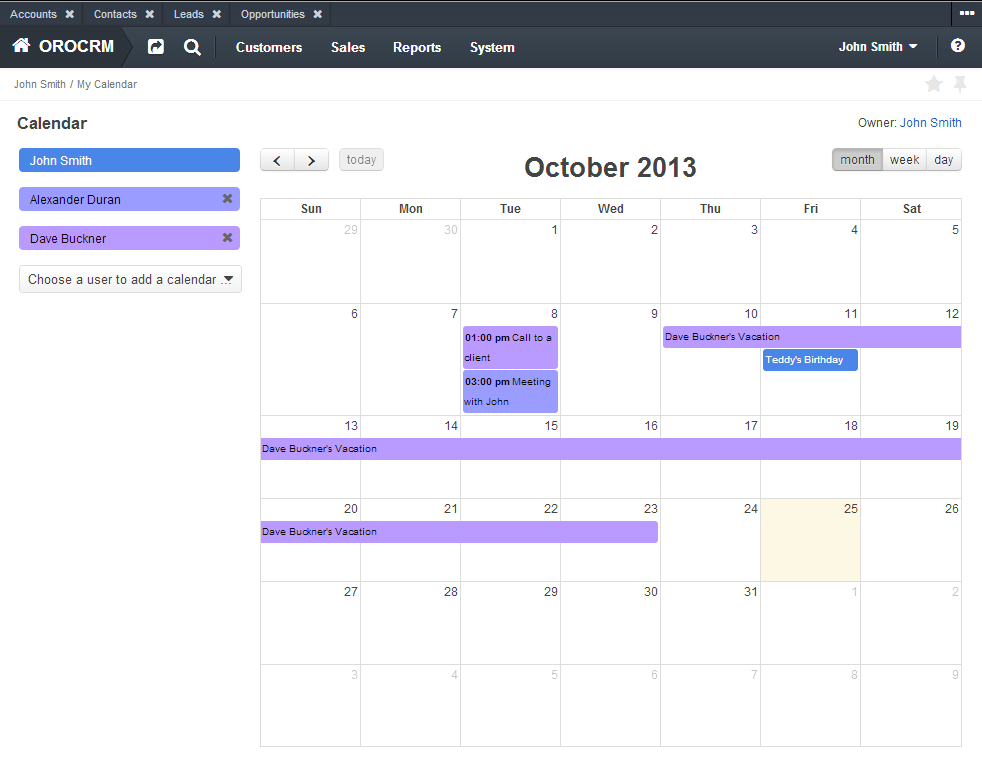
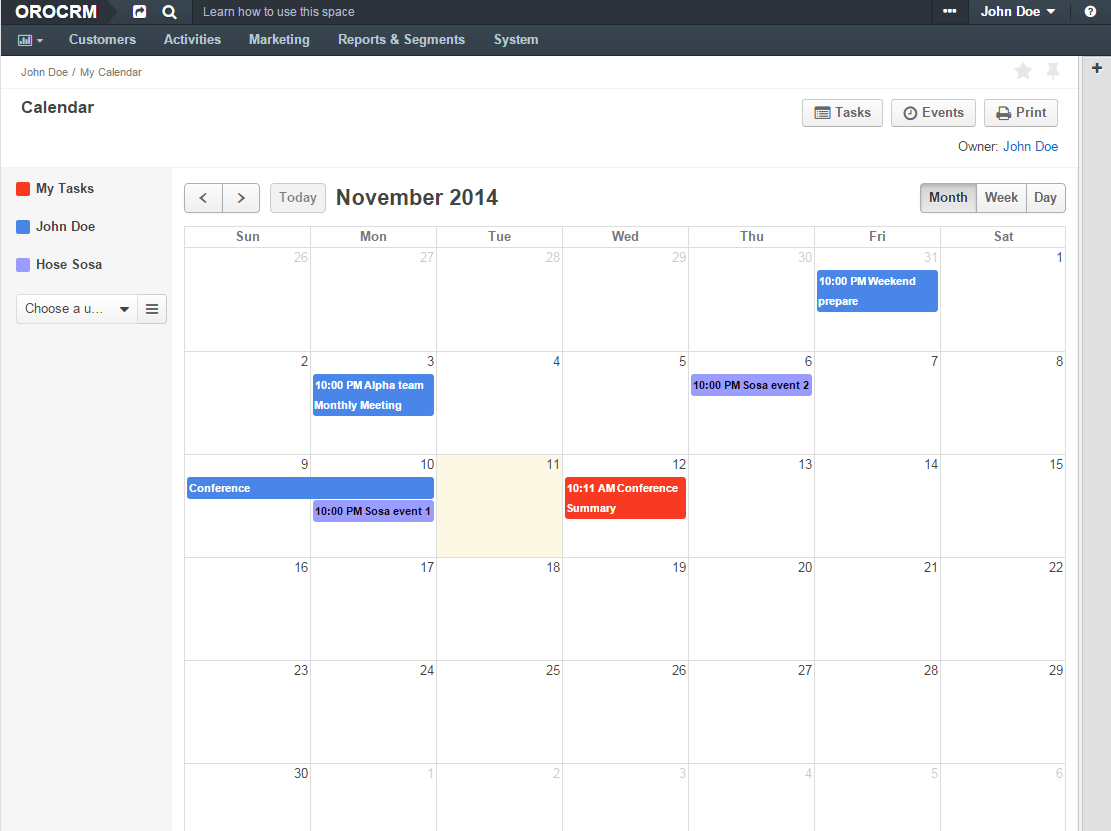
BAP-5968: Multiple calendars: Documentation - added doc - replace example calendar image

diff --git a/Resources/doc/contextMenu.md b/Resources/doc/contextMenu.md
@@ -1,0 +1,87 @@
+Context Calendar Menu
+=====================
+
+Table of content
+-----------------
+- [Overview](#overview)
+- [Extendability](#extendability)
+
+##Overview
+Each item is calendar in left sidebar on page "My Calendar". Each of them can have context menu. You can see it if click
+ on three dots icon in right side of calendar item. Context menu have actions. By default we have two actions "Show/Hide
+ calendar" and "Remove calendar" (from calendar items list).
+
+##Extendability
+Developer can extend calendar item context menu. He can add his own action to menu. Developer can add new action into
+ any bundle. Context Menu based on knplabs/knp-menu. First of all developer should add menu item into navigation.yml, for
+ example:
+``` yaml
+oro_menu_config:
+    items:
+        oro_calendar_remove_action:
+            label: 'oro.calendar.context.remove'
+            uri: '#'
+            extras:
+                position: 20
+                module: 'orocalendar/js/calendar/menu/remove-calendar'
+                template: 'OroCalendarBundle:Calendar:Menu/removeCalendar.html.twig'
+    tree:
+        calendar_menu:
+            type: calendar_menu
+            children:
+                oro_calendar_remove_action: ~
+```
+
+Developer must define parameters:
+- Label shows action name into menu.
+- Module consists js module that to perform action into browser. If developer don't provide module parameter then
+ context menu don't have this action.
+- Template parameter provide twig template that replace standard item template? for example:
+``` twig
+<% if (removable) { %>
+    {% if item.extras.module is defined %}
+        {% set itemAttributes = itemAttributes|merge({'data-module': item.extras.module })%}
+    {% endif %}
+    <a href="javascript:void(0);"{{ oro_menu.attributes(itemAttributes) }}>{{ label }}</a>
+<% } %>
+```
+
+In js module developer should done method execute. This method will call when user click on your item menu. Example:
+``` js
+...
+execute: function (model, promise) {
+    var removingMsg = messenger.notificationMessage('warning', __('Removing the calendar, please wait ...')),
+        $connection = this.connectionsView.findItem(model);
+    try {
+        $connection.hide();
+        model.destroy({
+            wait: true,
+            success: _.bind(function () {
+                removingMsg.close();
+                messenger.notificationFlashMessage('success', __('The calendar was removed.'));
+                promise.resolve();
+            }, this),
+            error: _.bind(function (model, response) {
+                removingMsg.close();
+                this._showError(__('Sorry, the calendar removing was failed'), response.responseJSON || {});
+                $connection.show();
+                promise.reject();
+            }, this)
+        });
+    } catch (err) {
+        removingMsg.close();
+        this._showError(__('Sorry, unexpected error was occurred'), err);
+        $connection.show();
+        promise.reject();
+    }
+},
+...
+```
+
+Execute function must receive two parameters:
+- model is Backbone object that consist property of calendar item.
+- promise is jQuery deferred object that synchronize context menu action and rendering calendar. If custom action done
+ successfully then promise object should perform resolve() method. In other case should perform reject() method.
+
+Don't forgot to execute cache:clear after update navigation.yml, and assets:install and assetic:dump for dev environment
+ and oro:requirejs:build for production environment.

diff --git a/Resources/doc/provider.md b/Resources/doc/provider.md
@@ -1,0 +1,60 @@
+Calendar Provider
+=================
+
+Table of content
+-----------------
+- [Overview](#overview)
+- [Getting Started](#getting-started)
+- [Implementation](#implementation)
+
+##Overview
+Calendar Provider gives developers access to the formation of an user calendar. The Calendar Manager consist all
+ Calendar Providers. Manager generates a list of calendars that will be displayed on the page "My Calendar".
+
+##Getting Started
+You must create Calendar Provider class that implements CalendarProviderInterface. To register this class as service
+ with tag "oro_calendar.calendar_provider" and define alias name, for example: "user".
+``` yaml
+oro_calendar.calendar_provider.user:
+    class: %oro_calendar.calendar_provider.user.class%
+    arguments:
+        - @oro_entity.doctrine_helper
+        - @oro_locale.formatter.name
+        - @oro_calendar.calendar_event.normalizer
+    tags:
+        - { name: oro_calendar.calendar_provider, alias: user }
+```
+
+##Implementation
+You must provide two methods getCalendarDefaultValues and getCalendarDefaultValues.
+
+getCalendarDefaultValues($userId, $calendarId, array $calendarIds), where:
+- $userId - the id of an user requested this information (type: integer),
+- $calendarId - the target calendar id (type: integer),
+- $calendarIds - the list of ids of connected calendars (type: array of integer).
+
+Method return array of default properties for the given calendar. Each item of this array can contains any properties of
+ a calendar you need to set as default. You can return any property defined in CalendarProperty class. If you need extra
+ properties you can return them in 'options' array. There are several additional properties you can return as well:
+- calendarName - a name of a calendar. This property is mandatory,
+- removable - indicated whether a calendar can be disconnected from the target calendar defaults to true.
+
+Also there is special property names 'options' where you can return some additional options. For example:
+- widgetRoute - route name of a widget can be used to view an event. defaults to empty,
+- widgetOptions - options of a widget can be used to view an event. defaults to empty.
+
+You can add additional fields to entity CalendarProperty via UI or Source Code. So you can provide default values for
+ this fields into calendar provider. If value of this fields will be changed then system will store it.
+
+getCalendarDefaultValues($userId, $calendarId, array $calendarIds), where:
+- $userId - the id of an user requested this information (type: int),
+- $calendarId - the target calendar id (type: int),
+- $start - a date/time specifies the begin of a time interval (type: DateTime),
+- $end - a date/time specifies the end of a time interval  (type: DateTime),
+- $subordinate - determines whether events from connected calendars should be included or not (type: bool).
+
+Method return array of calendar events. Each item of this array should contains all properties of a calendar event. There
+ are several additional properties you can return as well:
+- editable  - indicated whether an event can be modified. defaults to true,
+- removable - indicated whether an event can be deleted. defaults to true,
+- reminders - the list of attached reminders. defaults to empty.

diff --git a/README.md b/README.md
@@ -1,11 +1,21 @@
 OroCalendarBundle
 =================
 
+Table of content
+-------
+- [Overview](#overview)
+- [Calendar Providers](./Resources/doc/provider.md)
+- [Context Calendar Menu](./Resources/doc/contextMenu.md)
+- [UI](#ui)
+
+##Overview
+
 This bundle integrates the [jQuery FullCalendar](http://arshaw.com/fullcalendar/) plugin into the Oro Platform
 and provides other calendar related functionality, such as view calendars of other users,
 synchronization with external calendars.
 
-UI
---
+##UI
+
 The user's calendar is available under an user menu at the top right corner of a screen.
+
 ![An example of a calendar](./Resources/doc/example.png).
